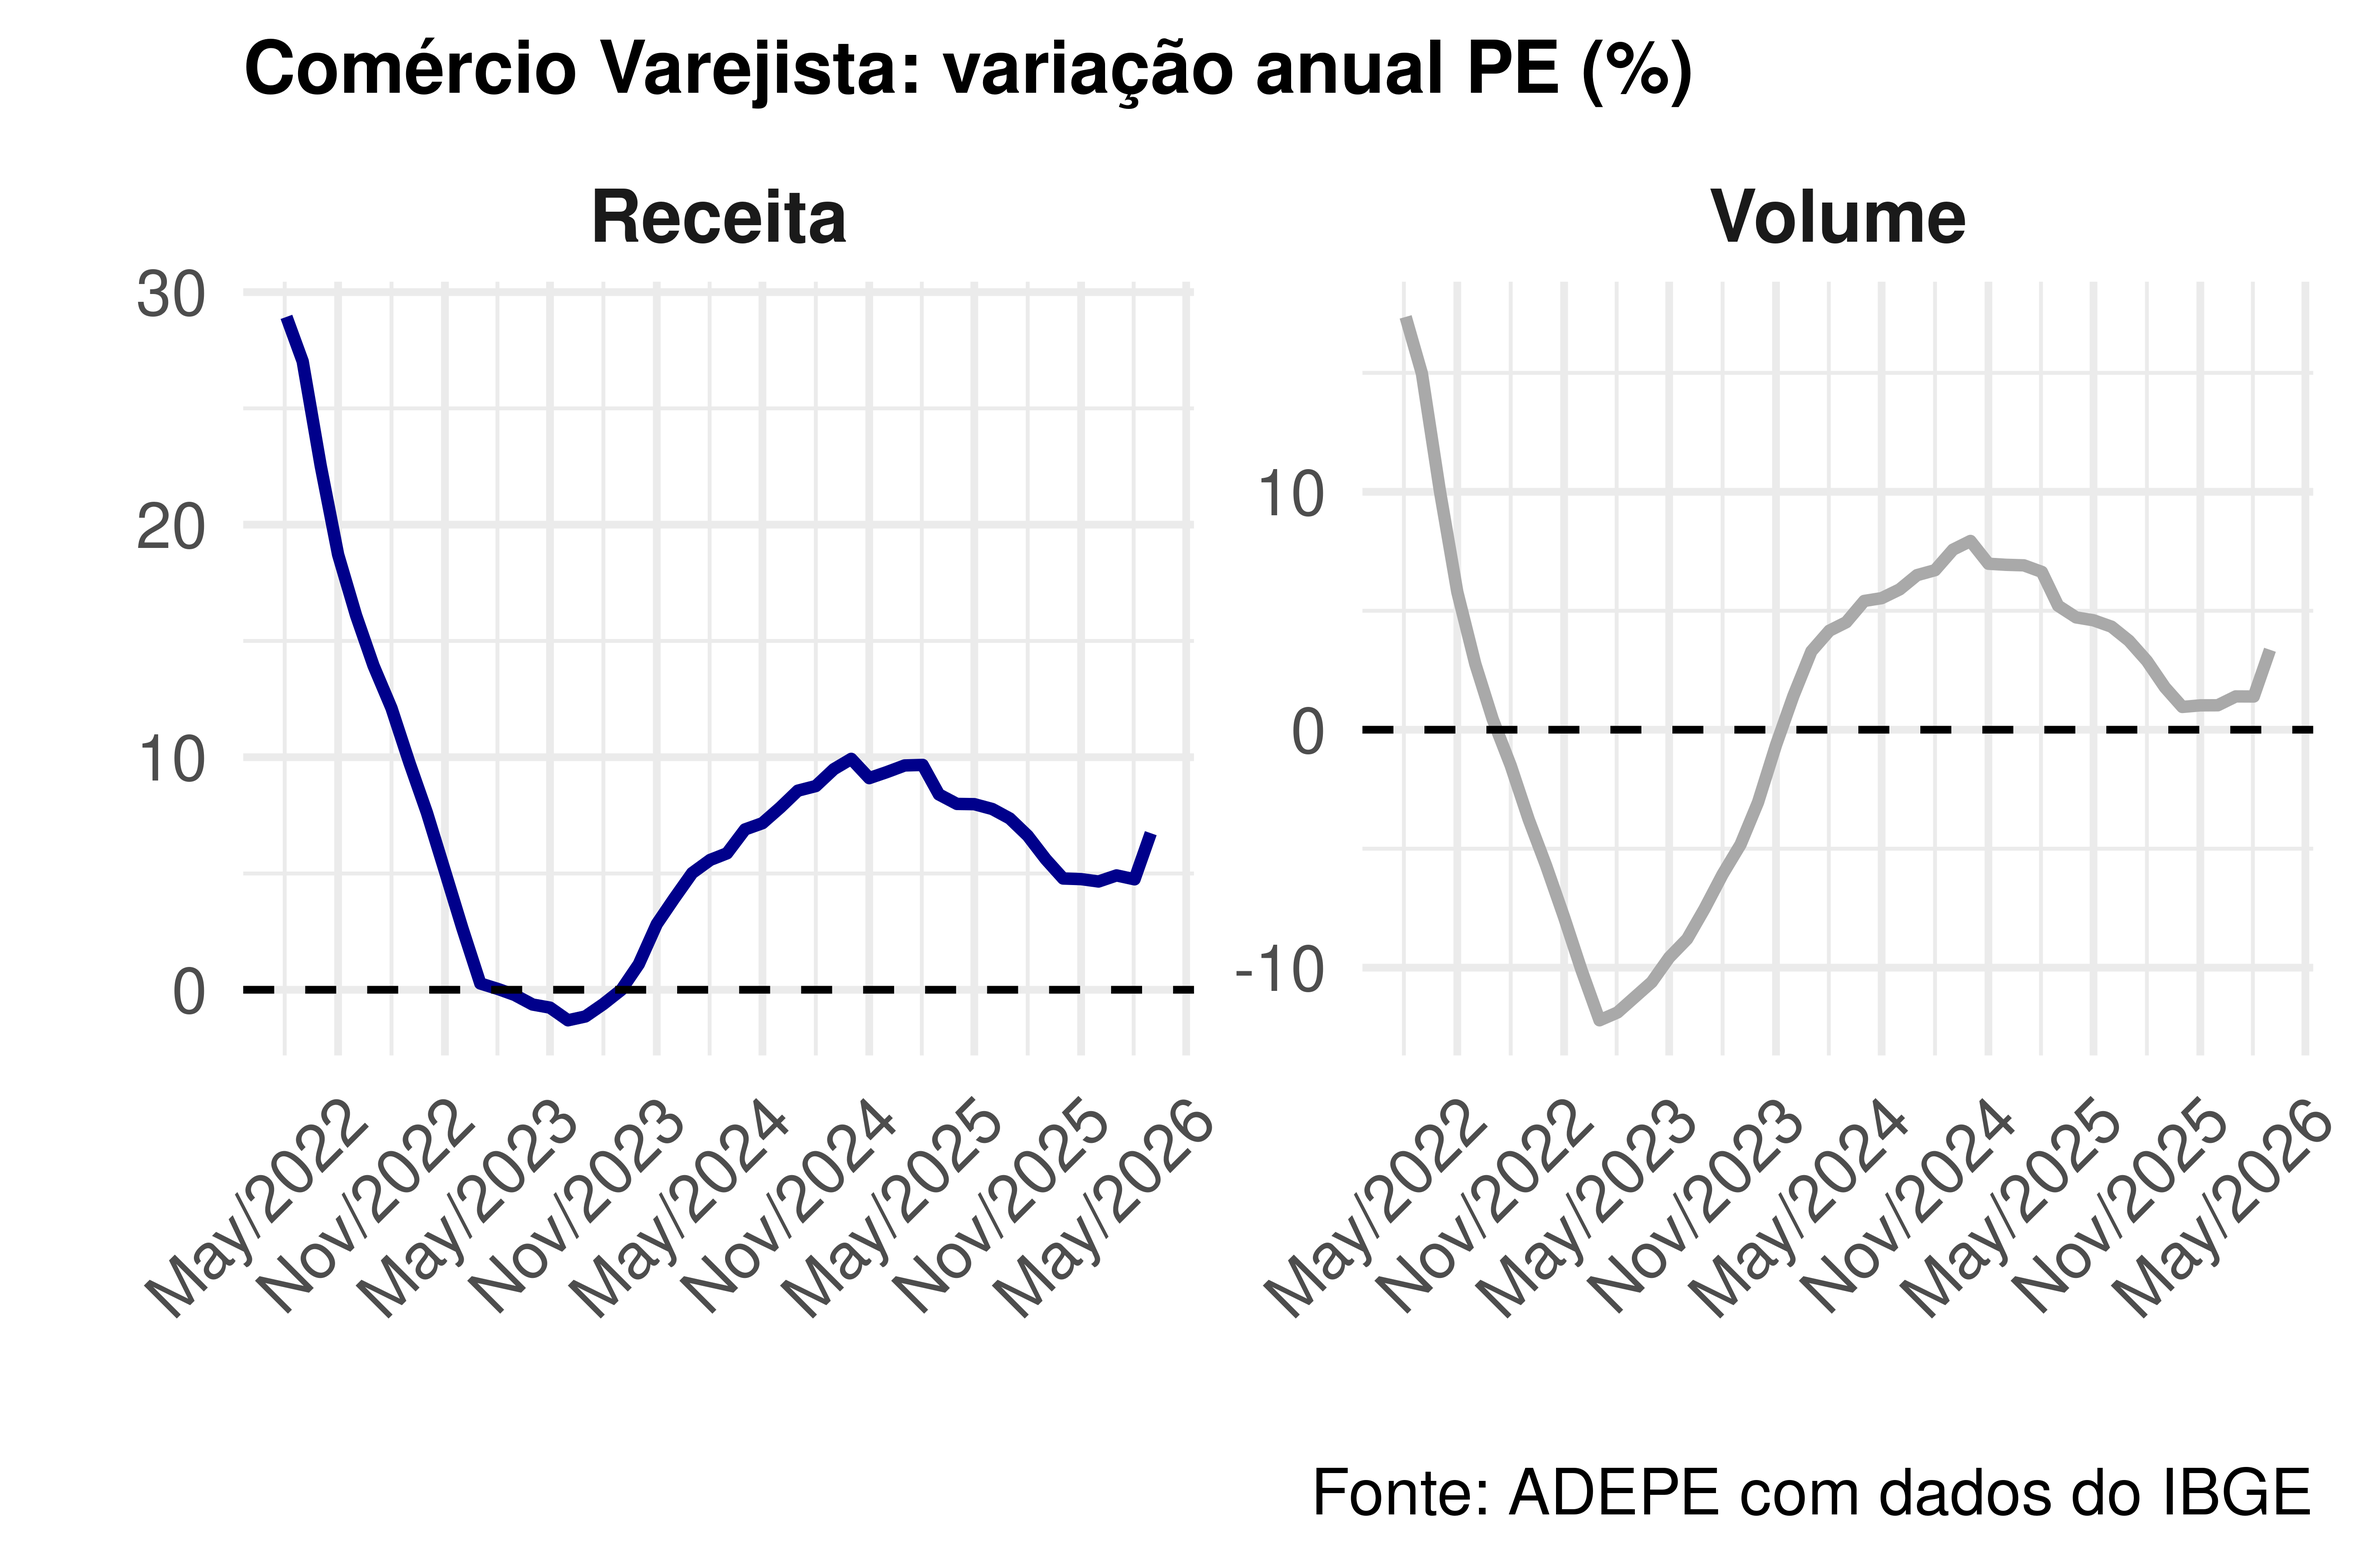
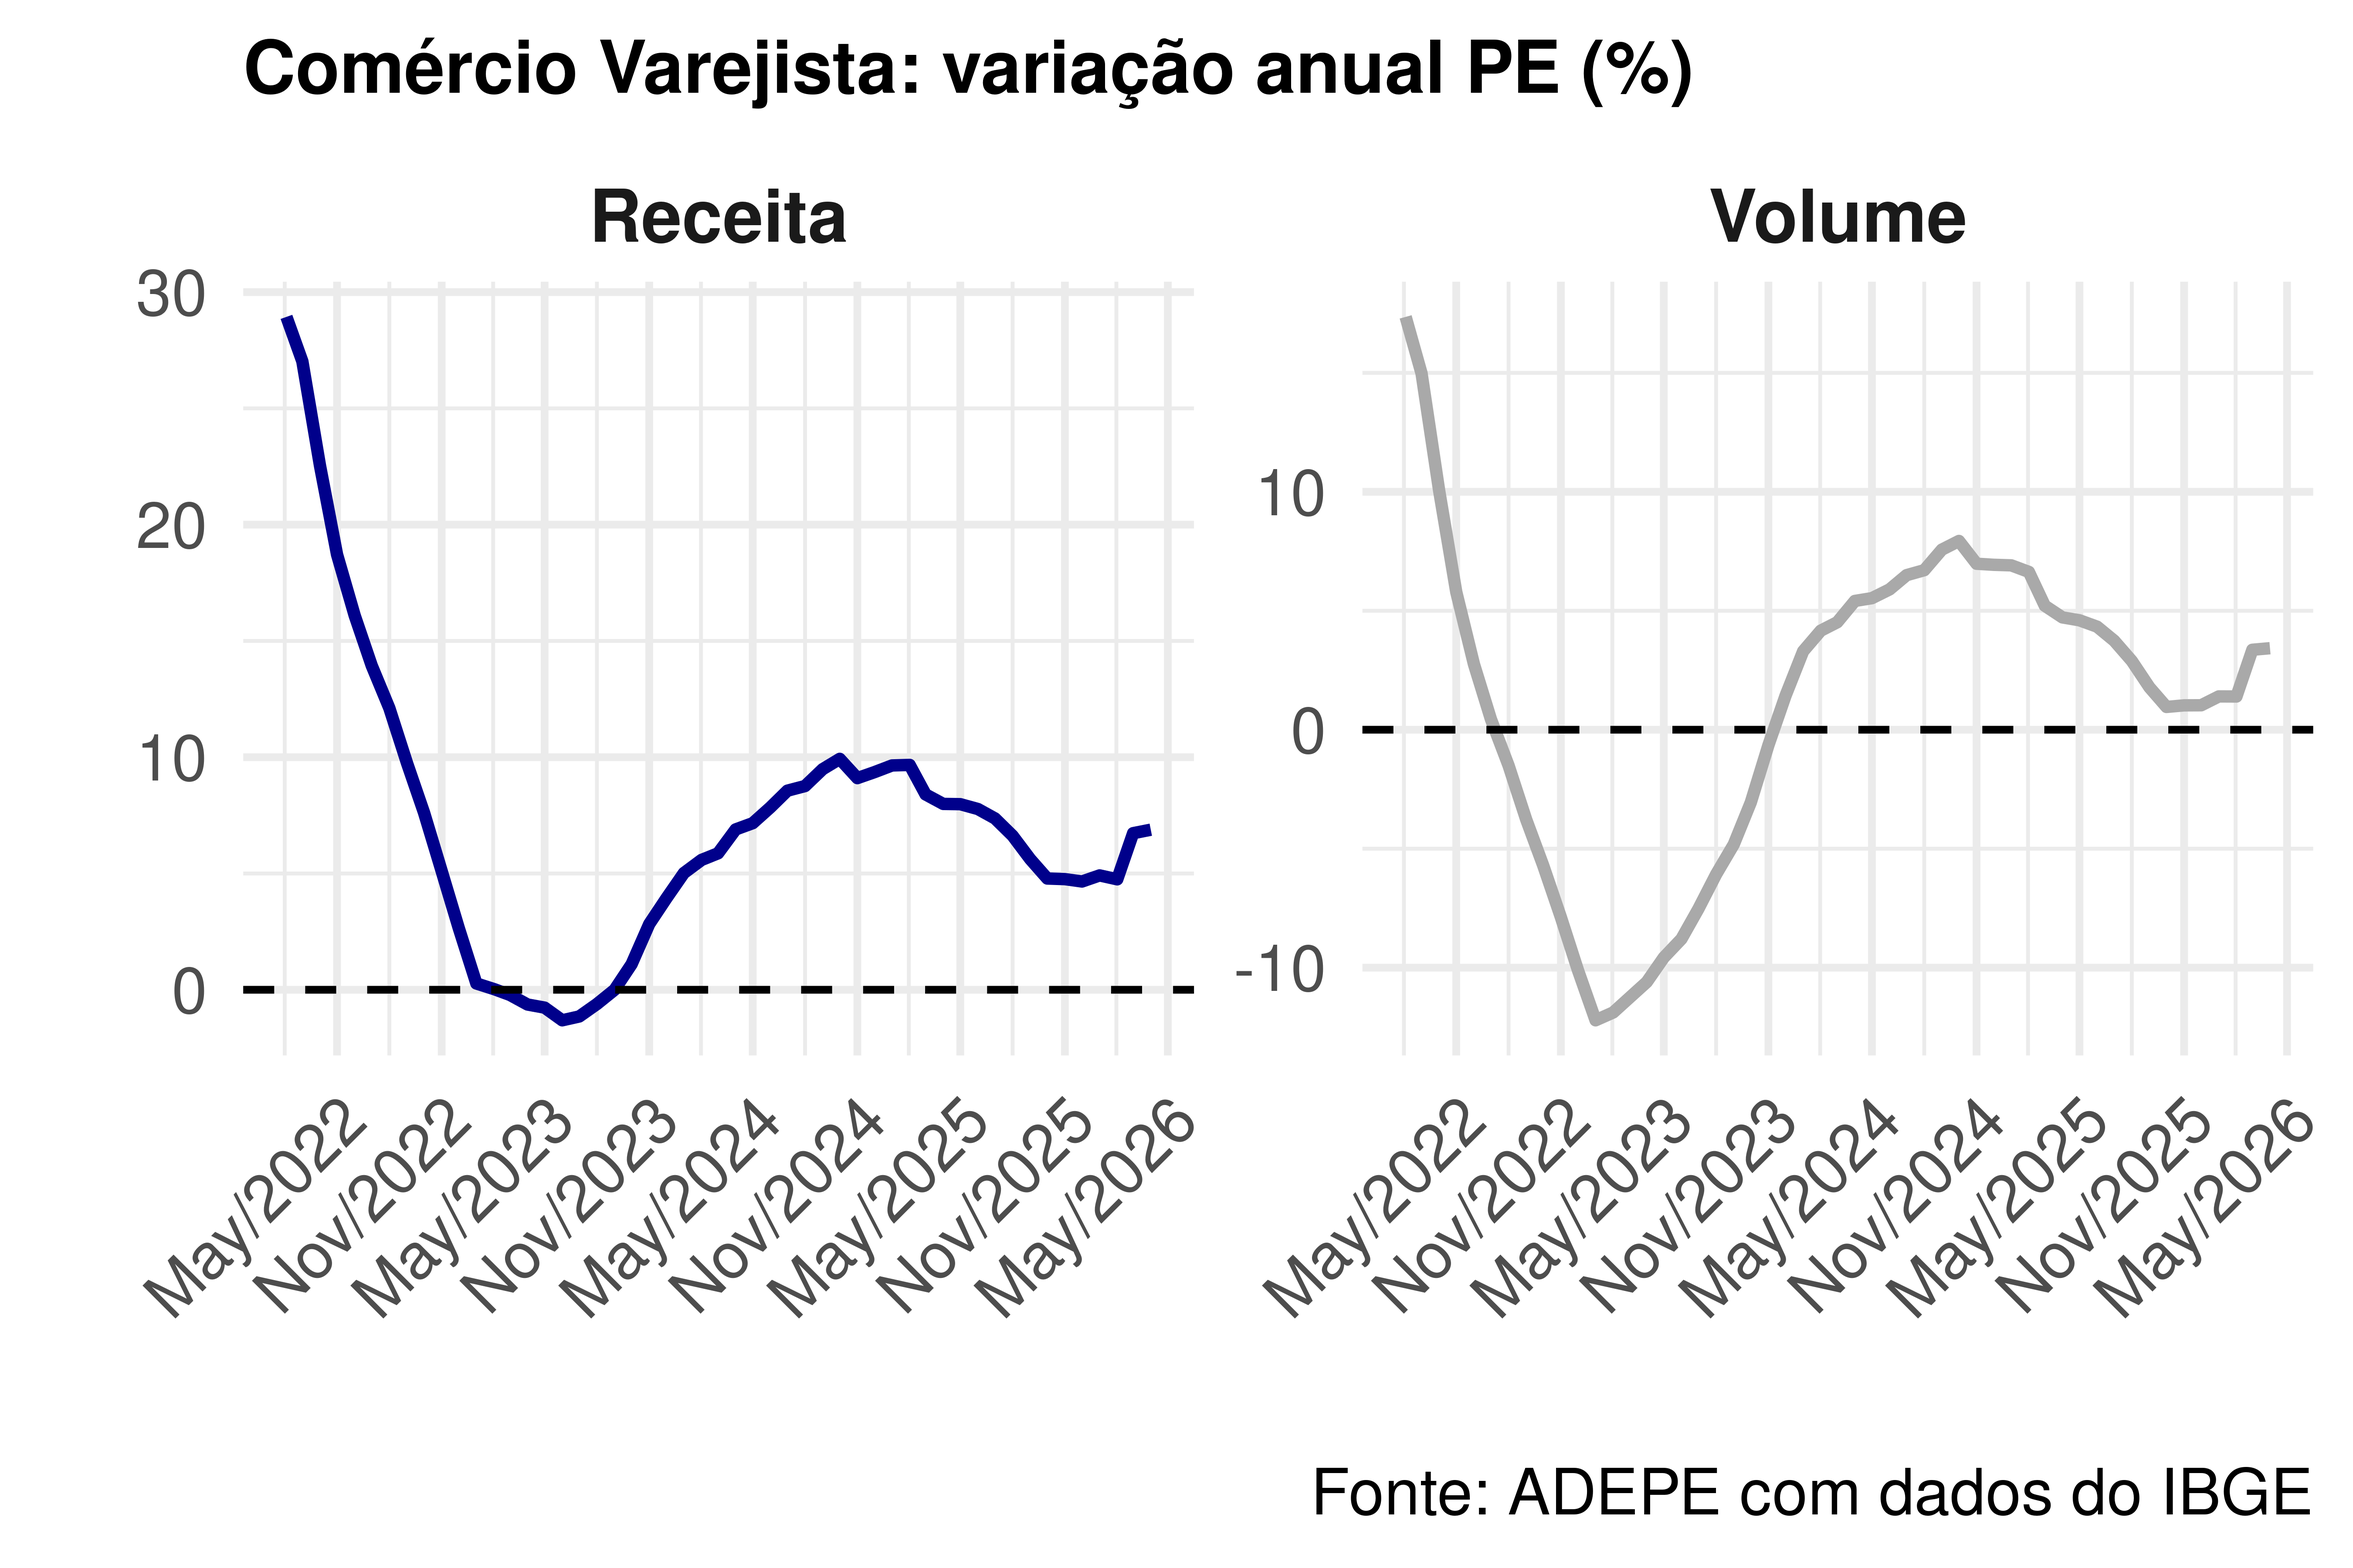
Atualização de relatório automatizada

diff --git a/relatório_nivel_atividade/pesquisas.html b/relatório_nivel_atividade/pesquisas.html
@@ -418,34 +418,34 @@ Nota
 </thead>
 <tbody>
 <tr class="odd">
-<td style="text-align: center;">2025-10-01</td>
-<td style="text-align: center;">2.44</td>
-<td style="text-align: center;">2.36</td>
-</tr>
-<tr class="even">
 <td style="text-align: center;">2025-11-01</td>
-<td style="text-align: center;">0.59</td>
-<td style="text-align: center;">0.69</td>
+<td style="text-align: center;">0.54</td>
+<td style="text-align: center;">0.66</td>
 </tr>
-<tr class="odd">
+<tr class="even">
 <td style="text-align: center;">2025-12-01</td>
-<td style="text-align: center;">-1.81</td>
-<td style="text-align: center;">-2.33</td>
-</tr>
-<tr class="even">
-<td style="text-align: center;">2026-01-01</td>
-<td style="text-align: center;">5.85</td>
-<td style="text-align: center;">5.98</td>
+<td style="text-align: center;">-1.85</td>
+<td style="text-align: center;">-2.38</td>
 </tr>
 <tr class="odd">
-<td style="text-align: center;">2026-02-01</td>
-<td style="text-align: center;">3.17</td>
-<td style="text-align: center;">3.66</td>
+<td style="text-align: center;">2026-01-01</td>
+<td style="text-align: center;">5.80</td>
+<td style="text-align: center;">5.93</td>
 </tr>
 <tr class="even">
+<td style="text-align: center;">2026-02-01</td>
+<td style="text-align: center;">3.18</td>
+<td style="text-align: center;">3.72</td>
+</tr>
+<tr class="odd">
 <td style="text-align: center;">2026-03-01</td>
-<td style="text-align: center;">0.03</td>
-<td style="text-align: center;">-2.14</td>
+<td style="text-align: center;">-0.02</td>
+<td style="text-align: center;">-2.29</td>
+</tr>
+<tr class="even">
+<td style="text-align: center;">2026-04-01</td>
+<td style="text-align: center;">0.56</td>
+<td style="text-align: center;">0.30</td>
 </tr>
 </tbody>
 </table>
@@ -466,34 +466,34 @@ Nota
 </thead>
 <tbody>
 <tr class="odd">
-<td style="text-align: center;">2025-10-01</td>
-<td style="text-align: center;">4.23</td>
-<td style="text-align: center;">1.07</td>
-</tr>
-<tr class="even">
 <td style="text-align: center;">2025-11-01</td>
 <td style="text-align: center;">3.80</td>
 <td style="text-align: center;">1.16</td>
 </tr>
-<tr class="odd">
+<tr class="even">
 <td style="text-align: center;">2025-12-01</td>
 <td style="text-align: center;">6.07</td>
 <td style="text-align: center;">3.18</td>
 </tr>
-<tr class="even">
+<tr class="odd">
 <td style="text-align: center;">2026-01-01</td>
 <td style="text-align: center;">12.02</td>
 <td style="text-align: center;">9.31</td>
 </tr>
-<tr class="odd">
-<td style="text-align: center;">2026-02-01</td>
-<td style="text-align: center;">7.93</td>
-<td style="text-align: center;">5.54</td>
-</tr>
 <tr class="even">
+<td style="text-align: center;">2026-02-01</td>
+<td style="text-align: center;">7.92</td>
+<td style="text-align: center;">5.53</td>
+</tr>
+<tr class="odd">
 <td style="text-align: center;">2026-03-01</td>
 <td style="text-align: center;">21.13</td>
 <td style="text-align: center;">17.32</td>
+</tr>
+<tr class="even">
+<td style="text-align: center;">2026-04-01</td>
+<td style="text-align: center;">10.07</td>
+<td style="text-align: center;">5.44</td>
 </tr>
 </tbody>
 </table>
@@ -514,34 +514,34 @@ Nota
 </thead>
 <tbody>
 <tr class="odd">
-<td style="text-align: center;">2025-10-01</td>
-<td style="text-align: center;">4.78</td>
-<td style="text-align: center;">0.96</td>
-</tr>
-<tr class="even">
 <td style="text-align: center;">2025-11-01</td>
 <td style="text-align: center;">4.76</td>
 <td style="text-align: center;">1.02</td>
 </tr>
-<tr class="odd">
+<tr class="even">
 <td style="text-align: center;">2025-12-01</td>
 <td style="text-align: center;">4.66</td>
 <td style="text-align: center;">1.03</td>
 </tr>
-<tr class="even">
+<tr class="odd">
 <td style="text-align: center;">2026-01-01</td>
 <td style="text-align: center;">4.92</td>
 <td style="text-align: center;">1.40</td>
 </tr>
-<tr class="odd">
+<tr class="even">
 <td style="text-align: center;">2026-02-01</td>
 <td style="text-align: center;">4.75</td>
 <td style="text-align: center;">1.40</td>
 </tr>
-<tr class="even">
+<tr class="odd">
 <td style="text-align: center;">2026-03-01</td>
 <td style="text-align: center;">6.73</td>
 <td style="text-align: center;">3.36</td>
+</tr>
+<tr class="even">
+<td style="text-align: center;">2026-04-01</td>
+<td style="text-align: center;">6.88</td>
+<td style="text-align: center;">3.43</td>
 </tr>
 </tbody>
 </table>
@@ -584,65 +584,65 @@ Nota
 <table class="table table-sm table-striped small">
 <caption>Variações interanuais de Receita</caption>
 <colgroup>
-<col style="width: 90%">
-<col style="width: 10%">
+<col style="width: 88%">
+<col style="width: 11%">
 </colgroup>
 <tbody>
 <tr class="odd">
 <td style="text-align: left;">Artigos farmacêuticos</td>
-<td style="text-align: center;">11.17</td>
+<td style="text-align: center;">3.75</td>
 </tr>
 <tr class="even">
 <td style="text-align: left;">Atacado especializado em produtos alimentícios, bebidas e fumo</td>
-<td style="text-align: center;">24.22</td>
+<td style="text-align: center;">12.77</td>
 </tr>
 <tr class="odd">
 <td style="text-align: left;">Combustíveis e lubrificantes</td>
-<td style="text-align: center;">6.25</td>
+<td style="text-align: center;">1.95</td>
 </tr>
 <tr class="even">
 <td style="text-align: left;">Eletrodomésticos</td>
-<td style="text-align: center;">-0.21</td>
+<td style="text-align: center;">-14.27</td>
 </tr>
 <tr class="odd">
 <td style="text-align: left;">Materiais para escritório</td>
-<td style="text-align: center;">30.40</td>
+<td style="text-align: center;">8.05</td>
 </tr>
 <tr class="even">
 <td style="text-align: left;">Hipermercados e supermercados</td>
-<td style="text-align: center;">29.10</td>
+<td style="text-align: center;">27.29</td>
 </tr>
 <tr class="odd">
 <td style="text-align: left;">Hipermercados, supermercados e outros</td>
-<td style="text-align: center;">24.52</td>
+<td style="text-align: center;">22.76</td>
 </tr>
 <tr class="even">
 <td style="text-align: left;">Livros, jornais, revistas e papelaria</td>
-<td style="text-align: center;">38.93</td>
+<td style="text-align: center;">36.61</td>
 </tr>
 <tr class="odd">
 <td style="text-align: left;">Material de construção</td>
-<td style="text-align: center;">19.19</td>
+<td style="text-align: center;">1.10</td>
 </tr>
 <tr class="even">
 <td style="text-align: left;">Móveis</td>
-<td style="text-align: center;">-2.32</td>
+<td style="text-align: center;">33.43</td>
 </tr>
 <tr class="odd">
 <td style="text-align: left;">Móveis e eletrodomésticos</td>
-<td style="text-align: center;">-0.69</td>
+<td style="text-align: center;">-3.66</td>
 </tr>
 <tr class="even">
 <td style="text-align: left;">Outros artigos de uso pessoal e doméstico</td>
-<td style="text-align: center;">25.63</td>
+<td style="text-align: center;">14.49</td>
 </tr>
 <tr class="odd">
 <td style="text-align: left;">Tecidos, vestuário e calçados</td>
-<td style="text-align: center;">5.95</td>
+<td style="text-align: center;">1.66</td>
 </tr>
 <tr class="even">
 <td style="text-align: left;">Veículos, motocicletas, partes e peças</td>
-<td style="text-align: center;">27.40</td>
+<td style="text-align: center;">-1.80</td>
 </tr>
 </tbody>
 </table>
